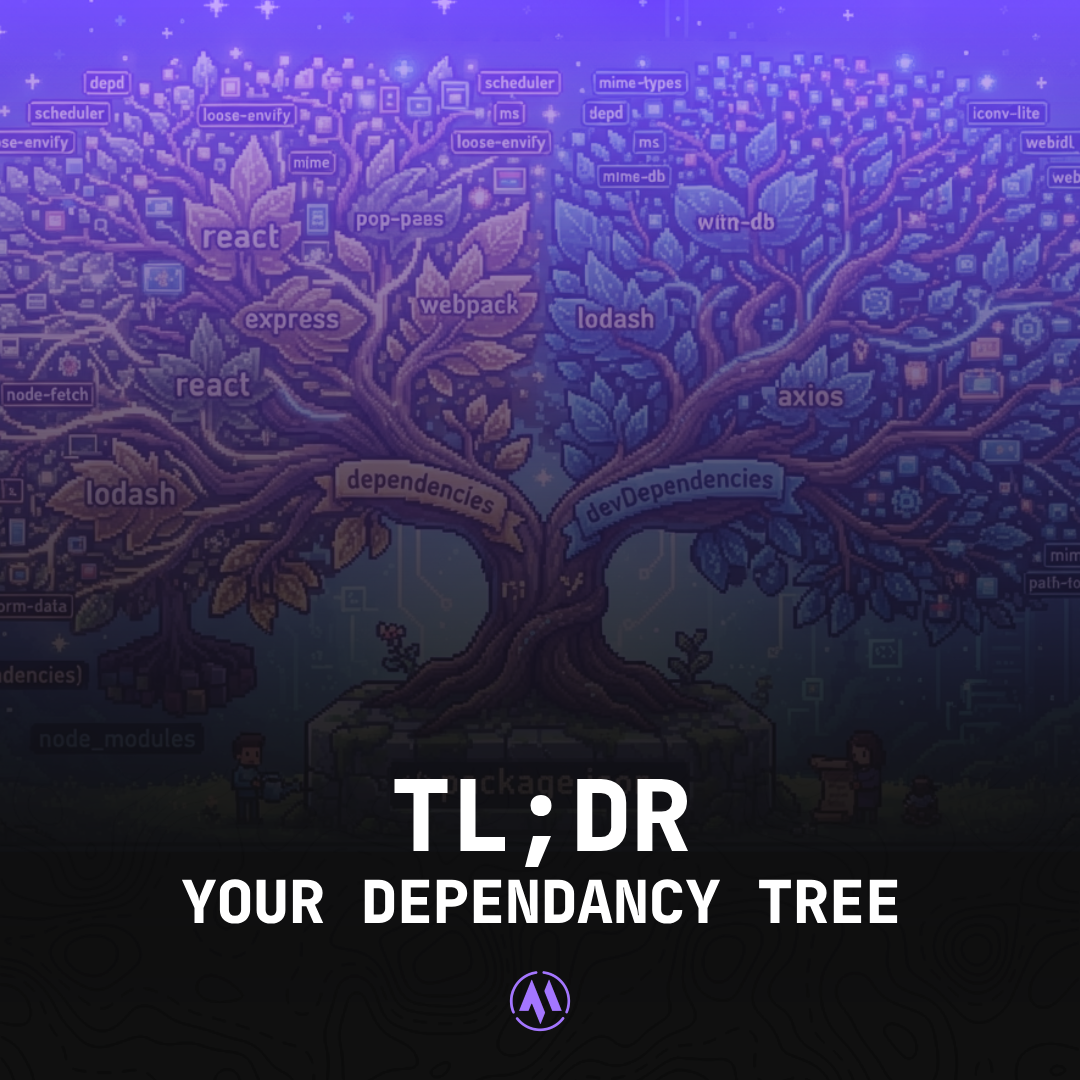
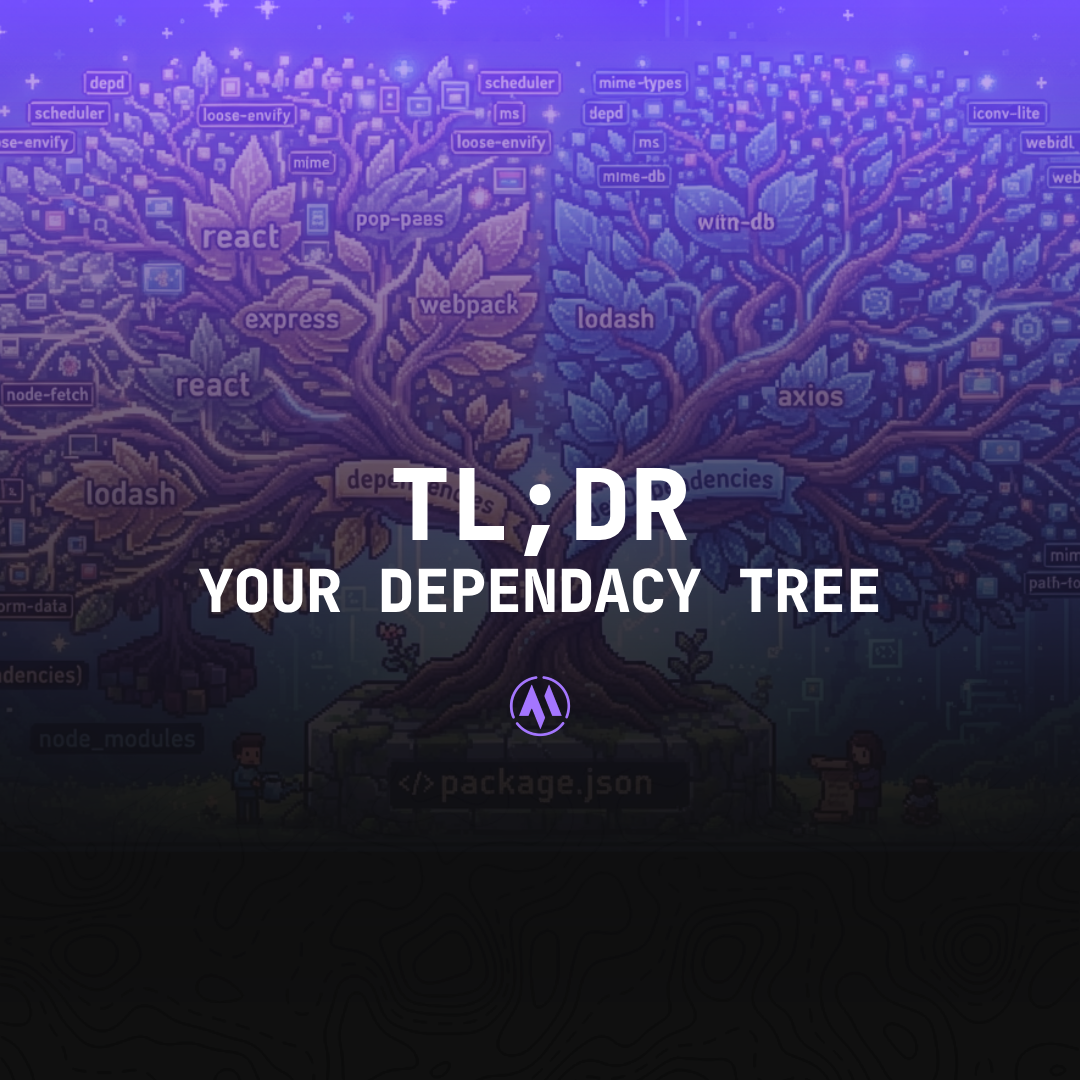
Improve blog SEO: article metadata, RSS feed, social preview images
Add og:type=article with article: meta tags and BlogPosting JSON-LD on
post pages, an RSS feed at /rss.xml with autodiscovery links, an author
field in the content schema, descriptive hero image alt text, and use
each post's own hero image (optimized to 1200x1200) as the social share
image instead of the site default. Recenter the hero image captions so
they survive the landscape crop social platforms apply to preview images.

diff --git a/src/pages/rss.xml.ts b/src/pages/rss.xml.ts
@@ -1,0 +1,52 @@
+import type { APIRoute } from "astro";
+import { getCollection } from "astro:content";
+import info from "@/data/info.json";
+
+function escapeXml(value: string): string {
+  return value
+    .replace(/&/g, "&amp;")
+    .replace(/</g, "&lt;")
+    .replace(/>/g, "&gt;")
+    .replace(/"/g, "&quot;")
+    .replace(/'/g, "&apos;");
+}
+
+export const GET: APIRoute = async ({ site }) => {
+  const posts = (await getCollection("blog", ({ data }) => !data.draft)).sort(
+    (a, b) => b.data.pubDate.valueOf() - a.data.pubDate.valueOf()
+  );
+
+  const siteUrl = new URL("/", site).href;
+  const feedUrl = new URL("/rss.xml", site).href;
+
+  const items = posts.map((post) => {
+    const link = new URL(`/blog/${post.id}/`, site).href;
+    const categories = post.data.tags.map((tag) => `      <category>${escapeXml(tag)}</category>`).join("\n");
+    return `    <item>
+      <title>${escapeXml(post.data.title)}</title>
+      <link>${link}</link>
+      <guid isPermaLink="true">${link}</guid>
+      <pubDate>${post.data.pubDate.toUTCString()}</pubDate>
+      <description>${escapeXml(post.data.description)}</description>
+      <author>${escapeXml(info.business.email)} (${escapeXml(post.data.author)})</author>
+${categories}
+    </item>`;
+  });
+
+  const xml = `<?xml version="1.0" encoding="UTF-8"?>
+<rss version="2.0" xmlns:atom="http://www.w3.org/2005/Atom">
+  <channel>
+    <title>${escapeXml(info.meta.ogSiteName)} Blog</title>
+    <link>${siteUrl}</link>
+    <description>${escapeXml(info.meta.description)}</description>
+    <language>en-za</language>
+    <atom:link href="${feedUrl}" rel="self" type="application/rss+xml" />
+${items.join("\n")}
+  </channel>
+</rss>
+`;
+
+  return new Response(xml, {
+    headers: { "Content-Type": "application/xml; charset=utf-8" },
+  });
+};

diff --git a/src/content.config.ts b/src/content.config.ts
@@ -11,9 +11,12 @@ const blog = defineCollection({
       title: z.string(),
       description: z.string(),
       pubDate: z.coerce.date(),
+      updatedDate: z.coerce.date().optional(),
+      author: z.string().default("Mitch Stroebel"),
       tags: z.array(z.string()).default([]),
       draft: z.boolean().default(false),
       heroImage: image().optional(),
+      heroImageAlt: z.string().optional(),
     }),
 });
 

diff --git a/src/content/blog/why-self-host.md b/src/content/blog/why-self-host.md
@@ -4,6 +4,7 @@ description: "The case for self-hosting, for developers specifically: a sandbox 
 pubDate: 2026-11-16
 tags: ["self-hosting", "homelab"]
 heroImage: "./images/why-self-host.png"
+heroImageAlt: "Pixel-art illustration of a developer panicking in front of a smoking server rack showing kernel panic errors, captioned 'The prod you are encouraged to break'"
 ---
 Self-hosting gets pitched, most often, as a privacy move: run your own Nextcloud instead of handing photos to Google, run your own Bitwarden instead of trusting a third party with your passwords. That's a legitimate reason to do it. It's also not the reason a software developer, specifically, should care — plenty of people who will never read a Dockerfile have perfectly good privacy reasons to self-host. The case for developers is narrower and more self-interested: it's one of the only places left where you get to run real, production-shaped infrastructure and be the only person who suffers when you get it wrong.
 

diff --git a/src/content/blog/software-dependencies.md b/src/content/blog/software-dependencies.md
@@ -4,6 +4,7 @@ description: "Dependency trees have gotten too big for anyone to review by hand.
 pubDate: 2026-11-17
 tags: ["security", "tooling"]
 heroImage: "./images/software-dependencies.png"
+heroImageAlt: "Pixel-art illustration of a sprawling tree made of npm package names like react, lodash and webpack, captioned 'TL;DR your dependency tree'"
 ---
 Run `npm ls --all` on almost any real-world JavaScript project and watch the terminal scroll for a while. That's not a bug. That's the actual shape of the thing you shipped. [An InfoWorld piece making the rounds this month](https://www.infoworld.com/article/4225043/software-dependencies-are-running-away-from-us.html) puts it plainly: nobody actually reviews the whole dependency graph anymore, because nobody possibly can.
 

diff --git a/src/content/blog/vscode-to-orca.md b/src/content/blog/vscode-to-orca.md
@@ -4,6 +4,7 @@ description: "Why switching from VSCode to an agent-first dev environment after 
 pubDate: 2026-11-15
 tags: ["tooling", "ai"]
 heroImage: "./images/vscode-to-orca.png"
+heroImageAlt: "Pixel-art illustration of a robot being crowned king on a throne by two other robots, captioned 'The IDE is dead, long live the ADE'"
 ---
 
 I didn't want to let it die. Most "I finally left my editor" posts pretend the author walked in open-minded and let the best tool win on merit. That's not what happened here. VSCode wasn't losing some ongoing evaluation — it had been "home" for so long that trying something else felt like relearning to type.
